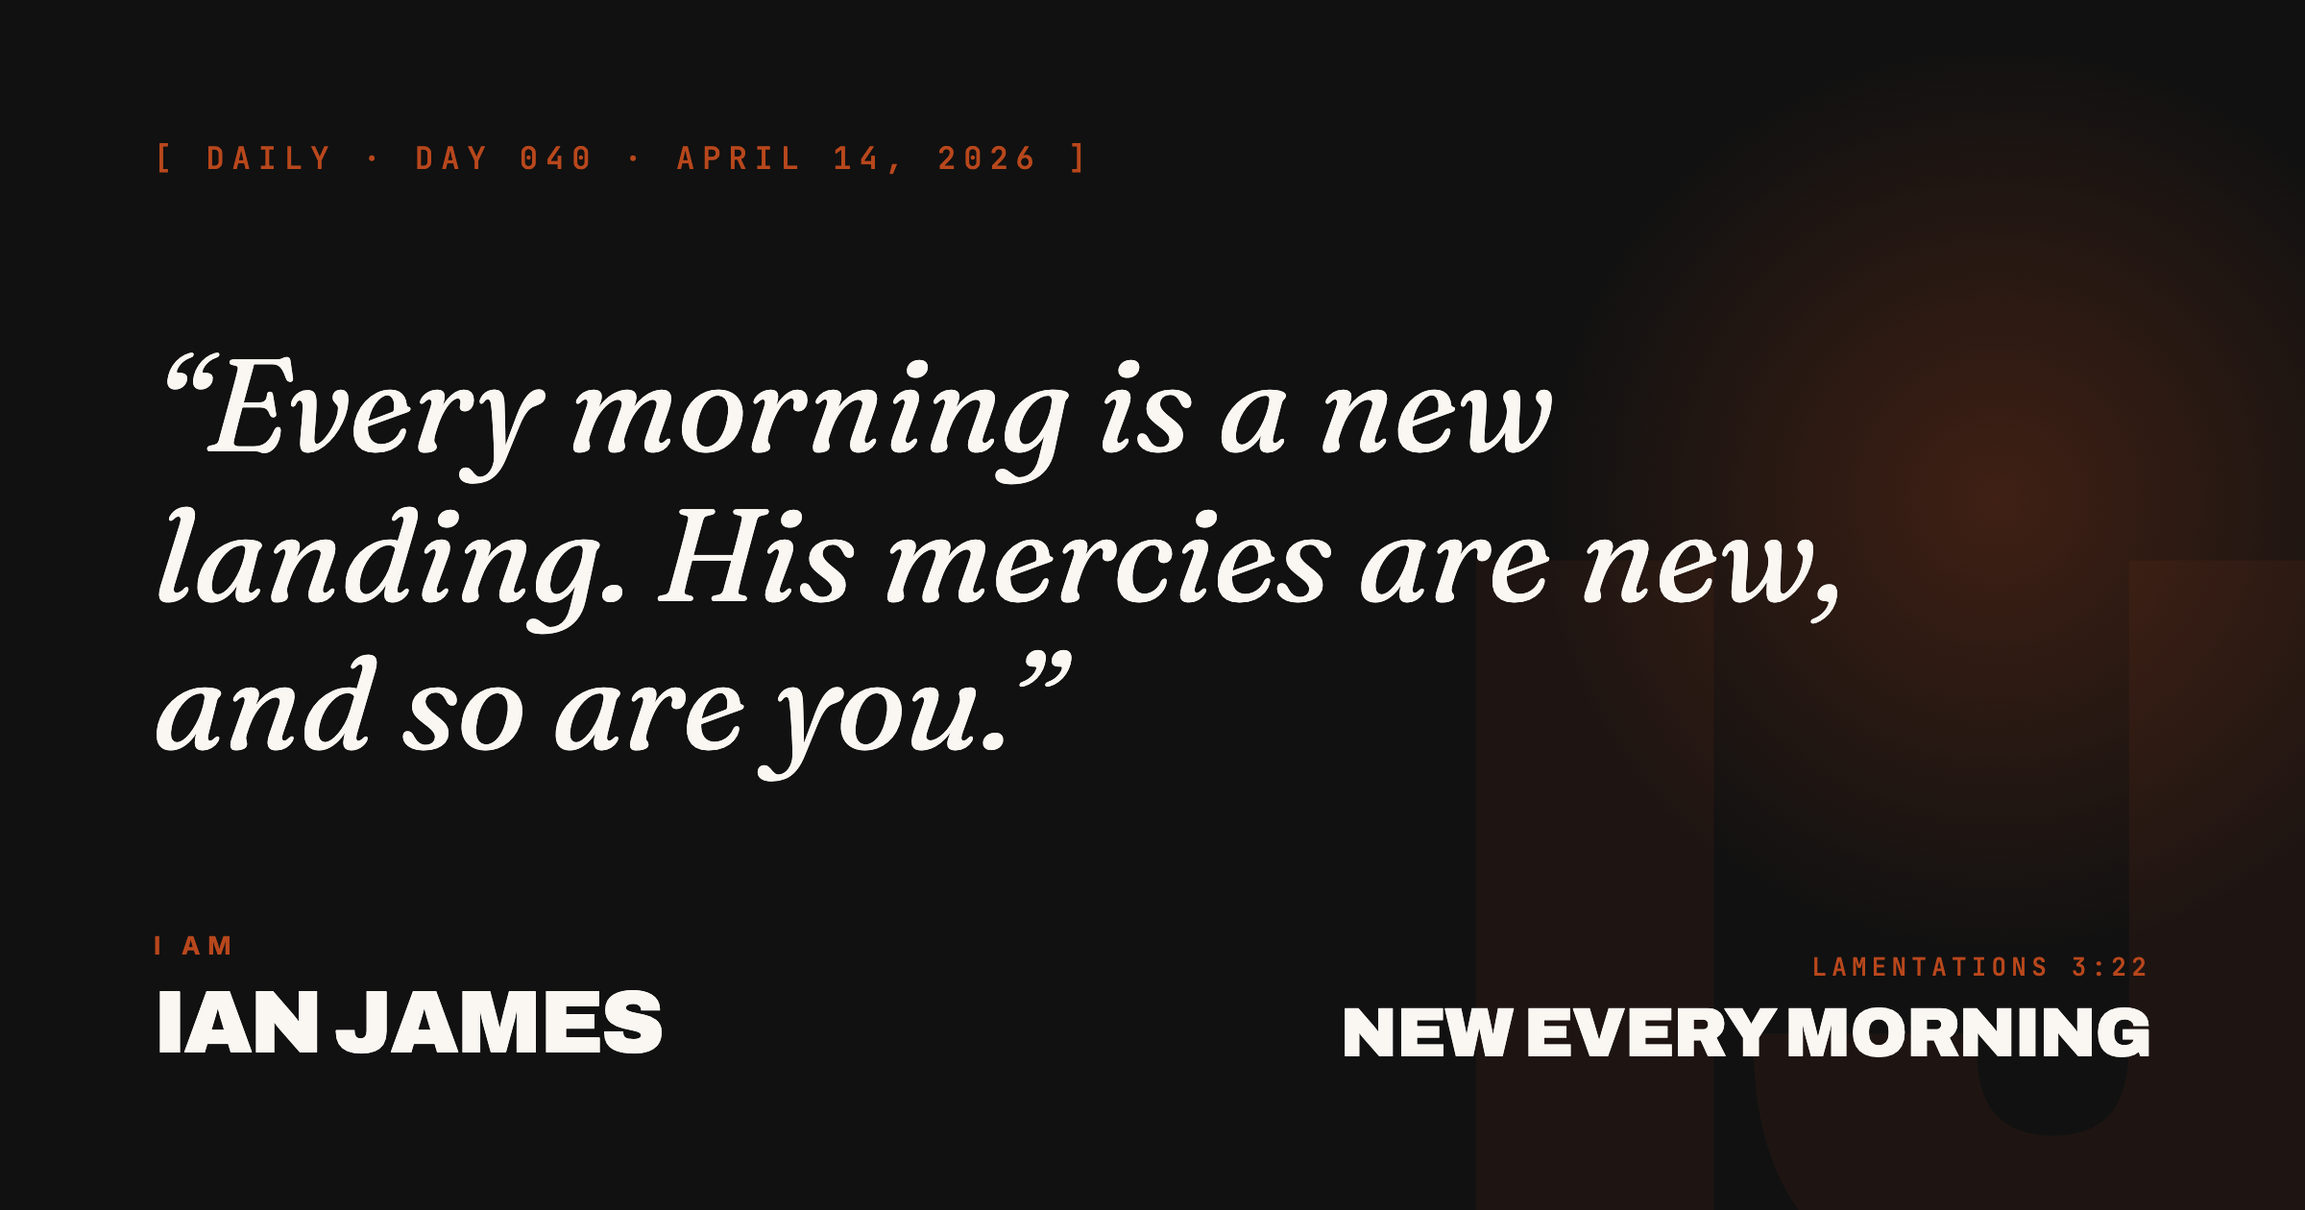
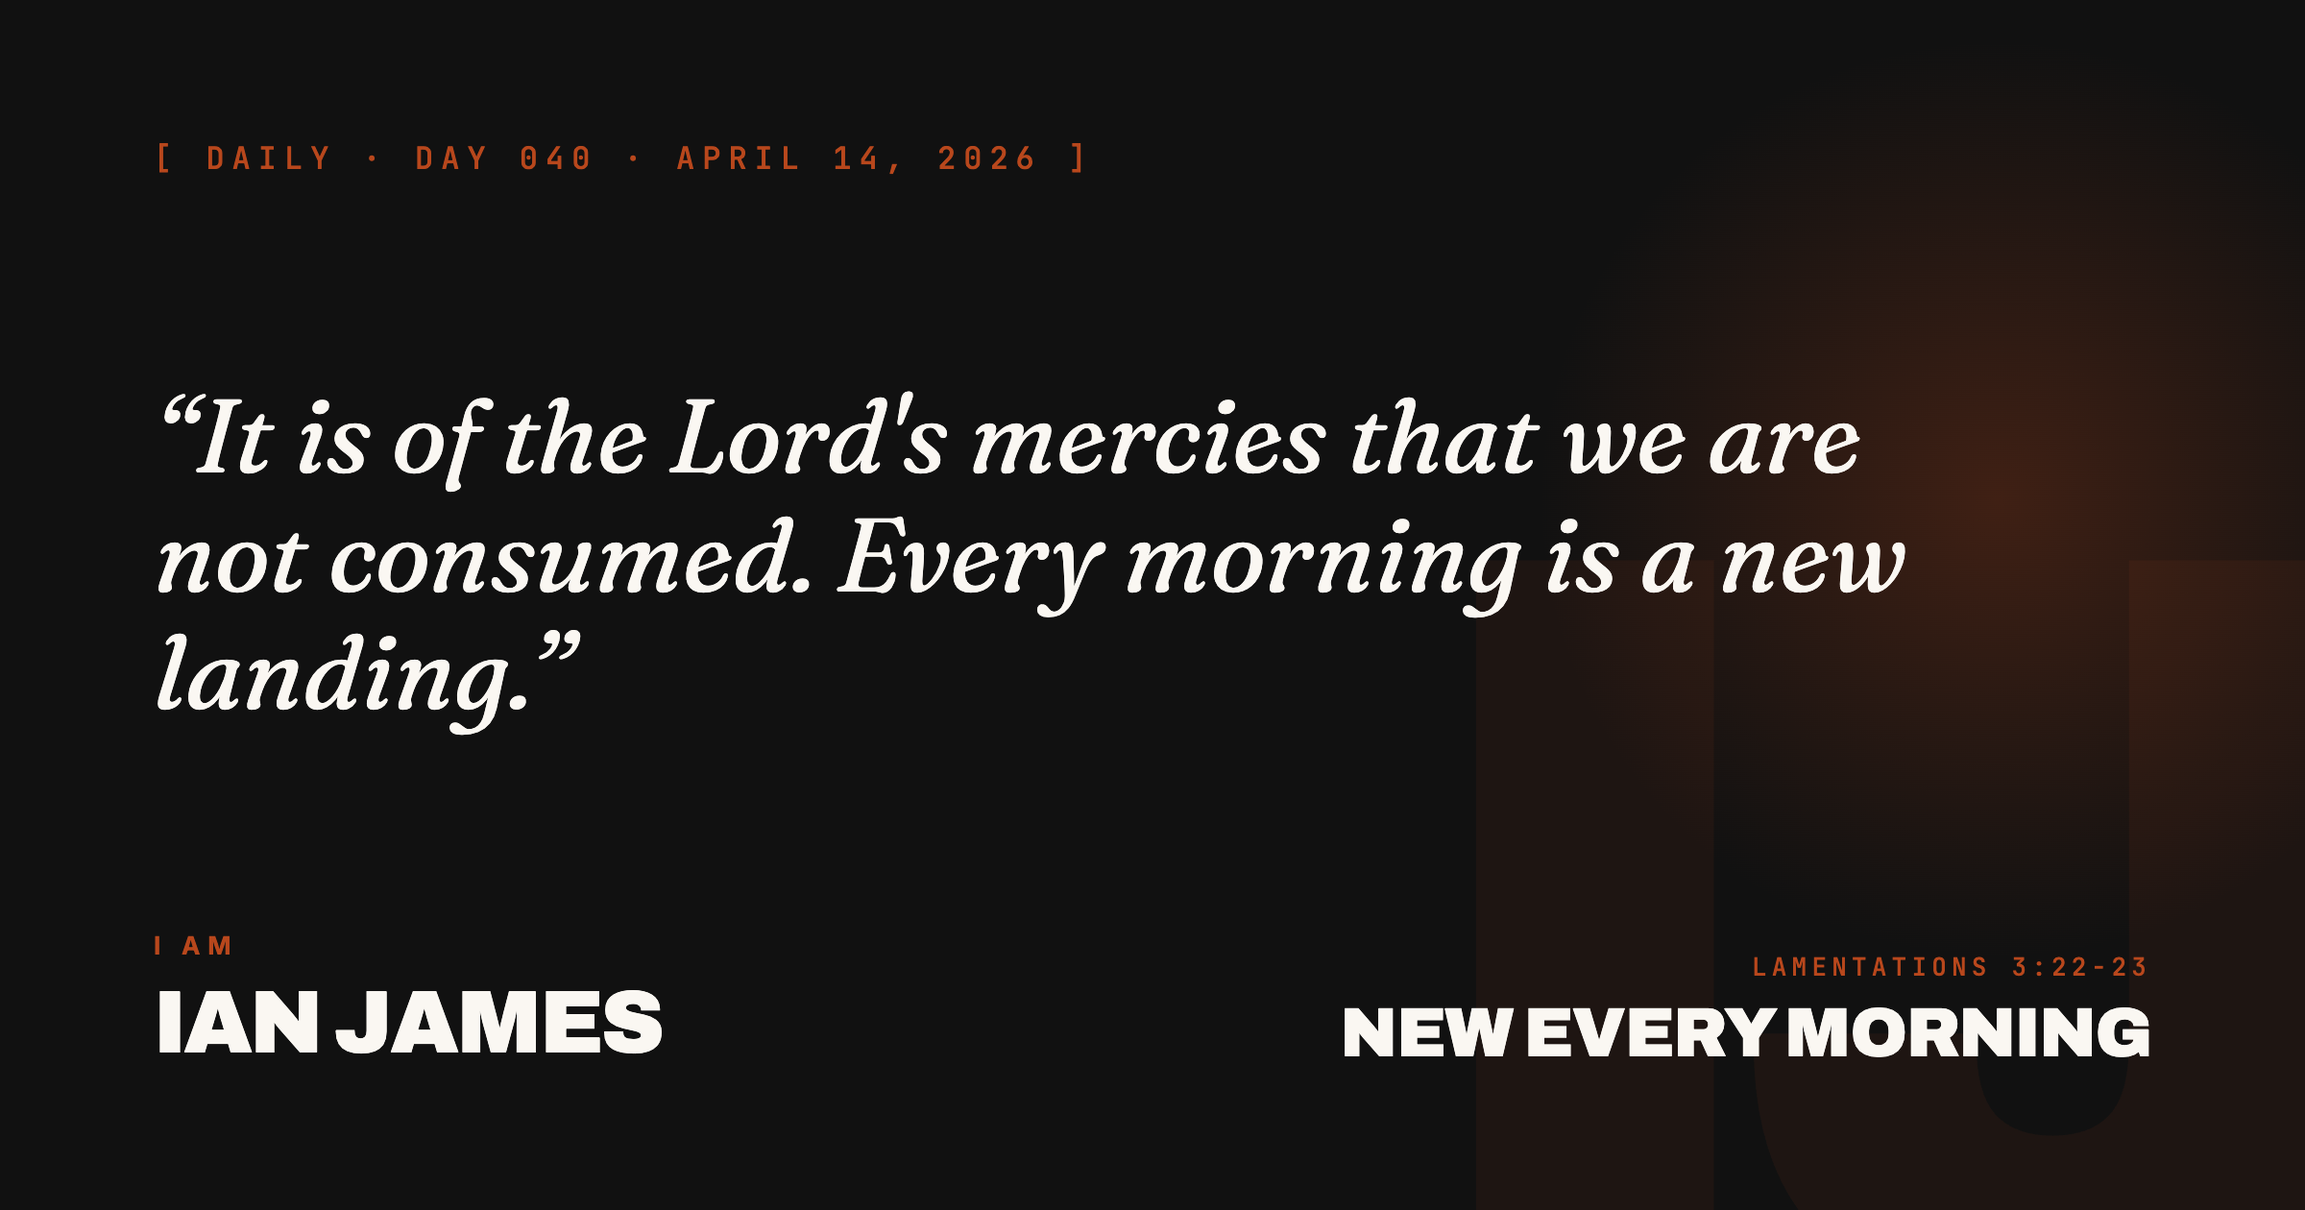
OG cards: generate 31 missing share images + protect default-site.png
Ran the now-JSON-driven gen-og.js to fill in the share-image gap:
- 31 new per-piece PNGs: og/essay-015.png + og/daily-057.png through
  og/daily-086.png. These pieces were sharing with only the page-level
  fallback image until now.
- 13 existing PNGs regenerated. Bytes differ (font subpixel rendering
  variance), no visual change — captured because the script writes them
  unconditionally.
- 6 share/*.html refreshes for entries whose JSON quote had drifted from
  the old gen-og.js hardcoded version (e.g. daily-040: "Every morning
  is a new landing. His mercies are new, and so are you." → "It is of
  the Lord's mercies that we are not consumed. Every morning is a new
  landing." — the actual quote from content/daily.json).

Also patched gen-og.js to STOP regenerating og/default-site.png. That
file is owned by scripts/gen-site-og.js (square 1200x1200, mirrors the
live "You are not finished" hero) — gen-og.js was overwriting it with
the older 1200x630 "unglamorous middle" card. Restored the committed
version of default-site.png and added a NOTE comment so the next person
running gen-og.js doesn't re-trigger the regression.

Changed region(s): [[0.0625, 0.2786, 0.8438, 0.65], [0.75, 0.7738, 0.9062, 0.8048]]

diff --git a/share/daily-041.html b/share/daily-041.html
@@ -3,27 +3,27 @@
 <head>
 <meta charset="utf-8" />
 <meta name="viewport" content="width=device-width, initial-scale=1" />
-<title>Day 041: The paycheck number — Ian James Ormo</title>
-<meta name="description" content="As a man thinks in his heart, so is he. The number was in his heart." />
+<title>Day 041: The number that was never yours — Ian James Ormo</title>
+<meta name="description" content="The number on your paycheck taught you how to think about yourself. That was never the number's job." />
 <meta name="robots" content="index, follow" />
 <link rel="canonical" href="https://ianjamesormo.com/daily.html#041" />
 <meta property="og:type" content="article" />
 <meta property="og:site_name" content="Ian James Ormo" />
-<meta property="og:title" content="Day 041: The paycheck number — Ian James Ormo" />
-<meta property="og:description" content="As a man thinks in his heart, so is he. The number was in his heart." />
+<meta property="og:title" content="Day 041: The number that was never yours — Ian James Ormo" />
+<meta property="og:description" content="The number on your paycheck taught you how to think about yourself. That was never the number's job." />
 <meta property="og:url" content="https://ianjamesormo.com/daily.html#041" />
 <meta property="og:image" content="https://ianjamesormo.com/og/daily-041.png" />
 <meta property="og:image:width" content="1200" />
 <meta property="og:image:height" content="630" />
 <meta name="twitter:card" content="summary_large_image" />
-<meta name="twitter:title" content="Day 041: The paycheck number — Ian James Ormo" />
-<meta name="twitter:description" content="As a man thinks in his heart, so is he. The number was in his heart." />
+<meta name="twitter:title" content="Day 041: The number that was never yours — Ian James Ormo" />
+<meta name="twitter:description" content="The number on your paycheck taught you how to think about yourself. That was never the number's job." />
 <meta name="twitter:image" content="https://ianjamesormo.com/og/daily-041.png" />
 <meta http-equiv="refresh" content="0; url=https://ianjamesormo.com/daily.html#041" />
 <style>body{margin:0;font-family:-apple-system,sans-serif;background:#FAF7F2;color:#111;padding:40px;}a{color:#B8471C}</style>
 </head>
 <body>
-<p>Redirecting to <a href="https://ianjamesormo.com/daily.html#041">The paycheck number</a>…</p>
+<p>Redirecting to <a href="https://ianjamesormo.com/daily.html#041">The number that was never yours</a>…</p>
 <script>location.replace("https://ianjamesormo.com/daily.html#041");</script>
 </body>
 </html>

diff --git a/share/daily-044.html b/share/daily-044.html
@@ -3,27 +3,27 @@
 <head>
 <meta charset="utf-8" />
 <meta name="viewport" content="width=device-width, initial-scale=1" />
-<title>Day 044: Faithfulness, not resilience — Ian James Ormo</title>
-<meta name="description" content="Do not grow weary. The harvest comes to the ones who did not leave." />
+<title>Day 044: Not resilience. Faithfulness. — Ian James Ormo</title>
+<meta name="description" content="Resilience is about bouncing. Faithfulness is about staying." />
 <meta name="robots" content="index, follow" />
 <link rel="canonical" href="https://ianjamesormo.com/daily.html#044" />
 <meta property="og:type" content="article" />
 <meta property="og:site_name" content="Ian James Ormo" />
-<meta property="og:title" content="Day 044: Faithfulness, not resilience — Ian James Ormo" />
-<meta property="og:description" content="Do not grow weary. The harvest comes to the ones who did not leave." />
+<meta property="og:title" content="Day 044: Not resilience. Faithfulness. — Ian James Ormo" />
+<meta property="og:description" content="Resilience is about bouncing. Faithfulness is about staying." />
 <meta property="og:url" content="https://ianjamesormo.com/daily.html#044" />
 <meta property="og:image" content="https://ianjamesormo.com/og/daily-044.png" />
 <meta property="og:image:width" content="1200" />
 <meta property="og:image:height" content="630" />
 <meta name="twitter:card" content="summary_large_image" />
-<meta name="twitter:title" content="Day 044: Faithfulness, not resilience — Ian James Ormo" />
-<meta name="twitter:description" content="Do not grow weary. The harvest comes to the ones who did not leave." />
+<meta name="twitter:title" content="Day 044: Not resilience. Faithfulness. — Ian James Ormo" />
+<meta name="twitter:description" content="Resilience is about bouncing. Faithfulness is about staying." />
 <meta name="twitter:image" content="https://ianjamesormo.com/og/daily-044.png" />
 <meta http-equiv="refresh" content="0; url=https://ianjamesormo.com/daily.html#044" />
 <style>body{margin:0;font-family:-apple-system,sans-serif;background:#FAF7F2;color:#111;padding:40px;}a{color:#B8471C}</style>
 </head>
 <body>
-<p>Redirecting to <a href="https://ianjamesormo.com/daily.html#044">Faithfulness, not resilience</a>…</p>
+<p>Redirecting to <a href="https://ianjamesormo.com/daily.html#044">Not resilience. Faithfulness.</a>…</p>
 <script>location.replace("https://ianjamesormo.com/daily.html#044");</script>
 </body>
 </html>

diff --git a/share/essay-013.html b/share/essay-013.html
@@ -4,20 +4,20 @@
 <meta charset="utf-8" />
 <meta name="viewport" content="width=device-width, initial-scale=1" />
 <title>A letter to the man rebuilding. — Ian James Ormo</title>
-<meta name="description" content="Nobody hands you credit for the work you did before anyone was watching. But it still happened." />
+<meta name="description" content="Nobody hands you credit for the work you did before anyone was watching. But it still happened. It still counts." />
 <meta name="robots" content="index, follow" />
 <link rel="canonical" href="https://ianjamesormo.com/musings.html#013" />
 <meta property="og:type" content="article" />
 <meta property="og:site_name" content="Ian James Ormo" />
 <meta property="og:title" content="A letter to the man rebuilding. — Ian James Ormo" />
-<meta property="og:description" content="Nobody hands you credit for the work you did before anyone was watching. But it still happened." />
+<meta property="og:description" content="Nobody hands you credit for the work you did before anyone was watching. But it still happened. It still counts." />
 <meta property="og:url" content="https://ianjamesormo.com/musings.html#013" />
 <meta property="og:image" content="https://ianjamesormo.com/og/essay-013.png" />
 <meta property="og:image:width" content="1200" />
 <meta property="og:image:height" content="630" />
 <meta name="twitter:card" content="summary_large_image" />
 <meta name="twitter:title" content="A letter to the man rebuilding. — Ian James Ormo" />
-<meta name="twitter:description" content="Nobody hands you credit for the work you did before anyone was watching. But it still happened." />
+<meta name="twitter:description" content="Nobody hands you credit for the work you did before anyone was watching. But it still happened. It still counts." />
 <meta name="twitter:image" content="https://ianjamesormo.com/og/essay-013.png" />
 <meta http-equiv="refresh" content="0; url=https://ianjamesormo.com/musings.html#013" />
 <style>body{margin:0;font-family:-apple-system,sans-serif;background:#FAF7F2;color:#111;padding:40px;}a{color:#B8471C}</style>

diff --git a/share/daily-040.html b/share/daily-040.html
@@ -4,20 +4,20 @@
 <meta charset="utf-8" />
 <meta name="viewport" content="width=device-width, initial-scale=1" />
 <title>Day 040: New every morning — Ian James Ormo</title>
-<meta name="description" content="Every morning is a new landing. His mercies are new, and so are you." />
+<meta name="description" content="It is of the Lord's mercies that we are not consumed. Every morning is a new landing." />
 <meta name="robots" content="index, follow" />
 <link rel="canonical" href="https://ianjamesormo.com/daily.html#040" />
 <meta property="og:type" content="article" />
 <meta property="og:site_name" content="Ian James Ormo" />
 <meta property="og:title" content="Day 040: New every morning — Ian James Ormo" />
-<meta property="og:description" content="Every morning is a new landing. His mercies are new, and so are you." />
+<meta property="og:description" content="It is of the Lord's mercies that we are not consumed. Every morning is a new landing." />
 <meta property="og:url" content="https://ianjamesormo.com/daily.html#040" />
 <meta property="og:image" content="https://ianjamesormo.com/og/daily-040.png" />
 <meta property="og:image:width" content="1200" />
 <meta property="og:image:height" content="630" />
 <meta name="twitter:card" content="summary_large_image" />
 <meta name="twitter:title" content="Day 040: New every morning — Ian James Ormo" />
-<meta name="twitter:description" content="Every morning is a new landing. His mercies are new, and so are you." />
+<meta name="twitter:description" content="It is of the Lord's mercies that we are not consumed. Every morning is a new landing." />
 <meta name="twitter:image" content="https://ianjamesormo.com/og/daily-040.png" />
 <meta http-equiv="refresh" content="0; url=https://ianjamesormo.com/daily.html#040" />
 <style>body{margin:0;font-family:-apple-system,sans-serif;background:#FAF7F2;color:#111;padding:40px;}a{color:#B8471C}</style>

diff --git a/share/daily-043.html b/share/daily-043.html
@@ -4,20 +4,20 @@
 <meta charset="utf-8" />
 <meta name="viewport" content="width=device-width, initial-scale=1" />
 <title>Day 043: Dwell with knowledge — Ian James Ormo</title>
-<meta name="description" content="To dwell is to be present inside the room, not adjacent to it." />
+<meta name="description" content="To dwell with knowledge means to actually see the person you are sharing the room with." />
 <meta name="robots" content="index, follow" />
 <link rel="canonical" href="https://ianjamesormo.com/daily.html#043" />
 <meta property="og:type" content="article" />
 <meta property="og:site_name" content="Ian James Ormo" />
 <meta property="og:title" content="Day 043: Dwell with knowledge — Ian James Ormo" />
-<meta property="og:description" content="To dwell is to be present inside the room, not adjacent to it." />
+<meta property="og:description" content="To dwell with knowledge means to actually see the person you are sharing the room with." />
 <meta property="og:url" content="https://ianjamesormo.com/daily.html#043" />
 <meta property="og:image" content="https://ianjamesormo.com/og/daily-043.png" />
 <meta property="og:image:width" content="1200" />
 <meta property="og:image:height" content="630" />
 <meta name="twitter:card" content="summary_large_image" />
 <meta name="twitter:title" content="Day 043: Dwell with knowledge — Ian James Ormo" />
-<meta name="twitter:description" content="To dwell is to be present inside the room, not adjacent to it." />
+<meta name="twitter:description" content="To dwell with knowledge means to actually see the person you are sharing the room with." />
 <meta name="twitter:image" content="https://ianjamesormo.com/og/daily-043.png" />
 <meta http-equiv="refresh" content="0; url=https://ianjamesormo.com/daily.html#043" />
 <style>body{margin:0;font-family:-apple-system,sans-serif;background:#FAF7F2;color:#111;padding:40px;}a{color:#B8471C}</style>

diff --git a/share/daily-042.html b/share/daily-042.html
@@ -4,20 +4,20 @@
 <meta charset="utf-8" />
 <meta name="viewport" content="width=device-width, initial-scale=1" />
 <title>Day 042: Cost as evidence — Ian James Ormo</title>
-<meta name="description" content="The cross is the shape of love because the cross is the shape of maximum cost." />
+<meta name="description" content="Love is not a feeling. It is what it costs the person who chose it." />
 <meta name="robots" content="index, follow" />
 <link rel="canonical" href="https://ianjamesormo.com/daily.html#042" />
 <meta property="og:type" content="article" />
 <meta property="og:site_name" content="Ian James Ormo" />
 <meta property="og:title" content="Day 042: Cost as evidence — Ian James Ormo" />
-<meta property="og:description" content="The cross is the shape of love because the cross is the shape of maximum cost." />
+<meta property="og:description" content="Love is not a feeling. It is what it costs the person who chose it." />
 <meta property="og:url" content="https://ianjamesormo.com/daily.html#042" />
 <meta property="og:image" content="https://ianjamesormo.com/og/daily-042.png" />
 <meta property="og:image:width" content="1200" />
 <meta property="og:image:height" content="630" />
 <meta name="twitter:card" content="summary_large_image" />
 <meta name="twitter:title" content="Day 042: Cost as evidence — Ian James Ormo" />
-<meta name="twitter:description" content="The cross is the shape of love because the cross is the shape of maximum cost." />
+<meta name="twitter:description" content="Love is not a feeling. It is what it costs the person who chose it." />
 <meta name="twitter:image" content="https://ianjamesormo.com/og/daily-042.png" />
 <meta http-equiv="refresh" content="0; url=https://ianjamesormo.com/daily.html#042" />
 <style>body{margin:0;font-family:-apple-system,sans-serif;background:#FAF7F2;color:#111;padding:40px;}a{color:#B8471C}</style>

diff --git a/share/daily-045.html b/share/daily-045.html
@@ -4,20 +4,20 @@
 <meta charset="utf-8" />
 <meta name="viewport" content="width=device-width, initial-scale=1" />
 <title>Day 045: What the body carried — Ian James Ormo</title>
-<meta name="description" content="The body remembered what the mind could not yet narrate." />
+<meta name="description" content="The body does not lie the way the mind can. It keeps a different kind of record." />
 <meta name="robots" content="index, follow" />
 <link rel="canonical" href="https://ianjamesormo.com/daily.html#045" />
 <meta property="og:type" content="article" />
 <meta property="og:site_name" content="Ian James Ormo" />
 <meta property="og:title" content="Day 045: What the body carried — Ian James Ormo" />
-<meta property="og:description" content="The body remembered what the mind could not yet narrate." />
+<meta property="og:description" content="The body does not lie the way the mind can. It keeps a different kind of record." />
 <meta property="og:url" content="https://ianjamesormo.com/daily.html#045" />
 <meta property="og:image" content="https://ianjamesormo.com/og/daily-045.png" />
 <meta property="og:image:width" content="1200" />
 <meta property="og:image:height" content="630" />
 <meta name="twitter:card" content="summary_large_image" />
 <meta name="twitter:title" content="Day 045: What the body carried — Ian James Ormo" />
-<meta name="twitter:description" content="The body remembered what the mind could not yet narrate." />
+<meta name="twitter:description" content="The body does not lie the way the mind can. It keeps a different kind of record." />
 <meta name="twitter:image" content="https://ianjamesormo.com/og/daily-045.png" />
 <meta http-equiv="refresh" content="0; url=https://ianjamesormo.com/daily.html#045" />
 <style>body{margin:0;font-family:-apple-system,sans-serif;background:#FAF7F2;color:#111;padding:40px;}a{color:#B8471C}</style>

diff --git a/scripts/gen-og.js b/scripts/gen-og.js
@@ -127,10 +127,12 @@ async function main() {
   for (const e of essays) await render('essay', e);
   for (const d of daily)  await render('daily', d);
 
-  // Default fallbacks
+  // Default fallbacks for the per-piece pages.
+  // NOTE: og/default-site.png is owned by scripts/gen-site-og.js (it mirrors
+  // the live homepage hero, square 1200x1200) — do NOT regenerate it here or
+  // we'll overwrite it with the older "unglamorous middle" 1200x630 card.
   await renderDefault('default-essays', 'Longer than a post. Shorter than a book.', 'Writing on presence, faith, work, and the unglamorous middle.', 'Essays', 'essays');
   await renderDefault('default-daily',  'Three minutes. One question. Every morning.', 'Short, honest readings for people looking for something truer, slower, and harder to fake.', 'Daily', 'daily');
-  await renderDefault('default-site',   'Writer of the unglamorous middle.', 'Memoir, devotionals, and essays on faith, work, and the long way home.', 'Ian James', 'essays');
 
   await browser.close();
 }
